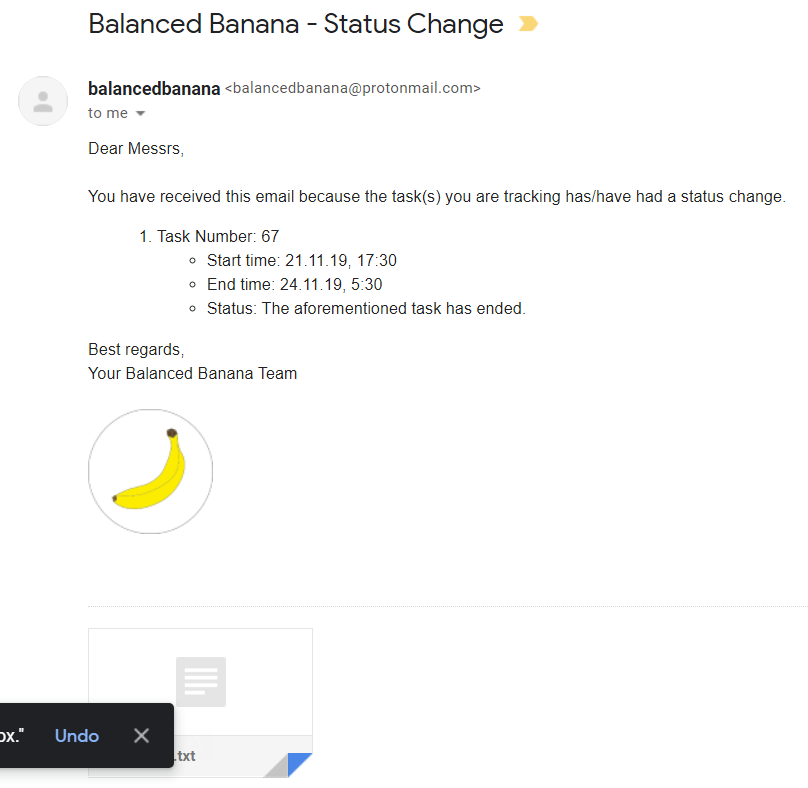
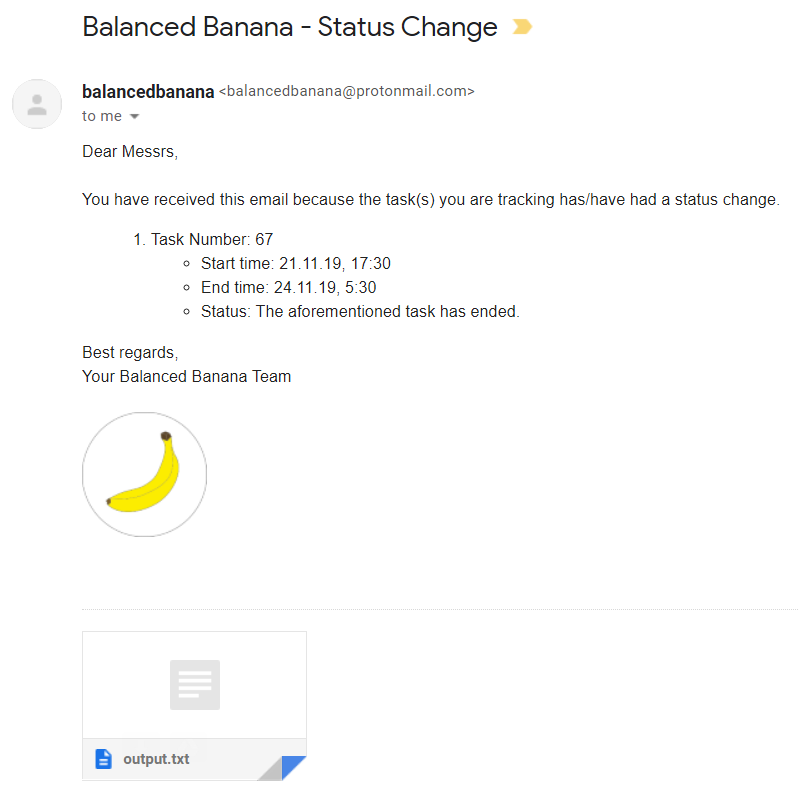
Formatting + description text

diff --git a/Lastenheft.tex b/Lastenheft.tex
@@ -1060,10 +1060,23 @@ echo $taskid
 bbc --tail $taskid
 \end{mycode}
 
-\subsection {Beispiel E-mail - Task Beendet}
+\clearpage
+
+\subsection {Beispiel E-Mails}
+\subsubsection{Aufgabe gestartet}
+Dies ist ein Beispiel für eine E-Mail-Benachrichtigung, die ein Benutzer erhält, wenn eine Aufgabe ausgeführt wird, und nicht, wenn sie vom Benutzer in die Warteschlange aufgenommen wird. \\
 \begin{center}
-  \makebox[\textwidth]{\includegraphics[width=\paperwidth]{beispiel_email.png}}
+  \makebox[\textwidth]{\includegraphics[width=\linewidth]{email_start.png}}
 \end{center}
+
+\clearpage
+\subsubsection{Aufgabe beendet}
+Dies ist ein Beispiel für eine E-Mail-Benachrichtigung, die ein Benutzer erhält, wenn eine Aufgabe abgeschlossen ist. Eine Aufgabe gilt als abgeschlossen, wenn sie erfolgreich ausgeführt wurde oder fehlgeschlagen ist. Die E-Mail-Benachrichtigung zeigt diesen Unterschied nicht an, es liegt an dem Benutzer, das Programm zu überprüfen, um zu sehen, ob die Aufgabe fehlgeschlagen ist oder nicht. Die Ausgabe des Programms wird in einer .txt-Datei gespeichert und in der E-Mail angehängt. \\
+
+\begin{center}
+  \makebox[\textwidth]{\includegraphics[width=\linewidth]{email_ended.png}}
+\end{center}
+
 \clearpage
 
 \begin{comment}
